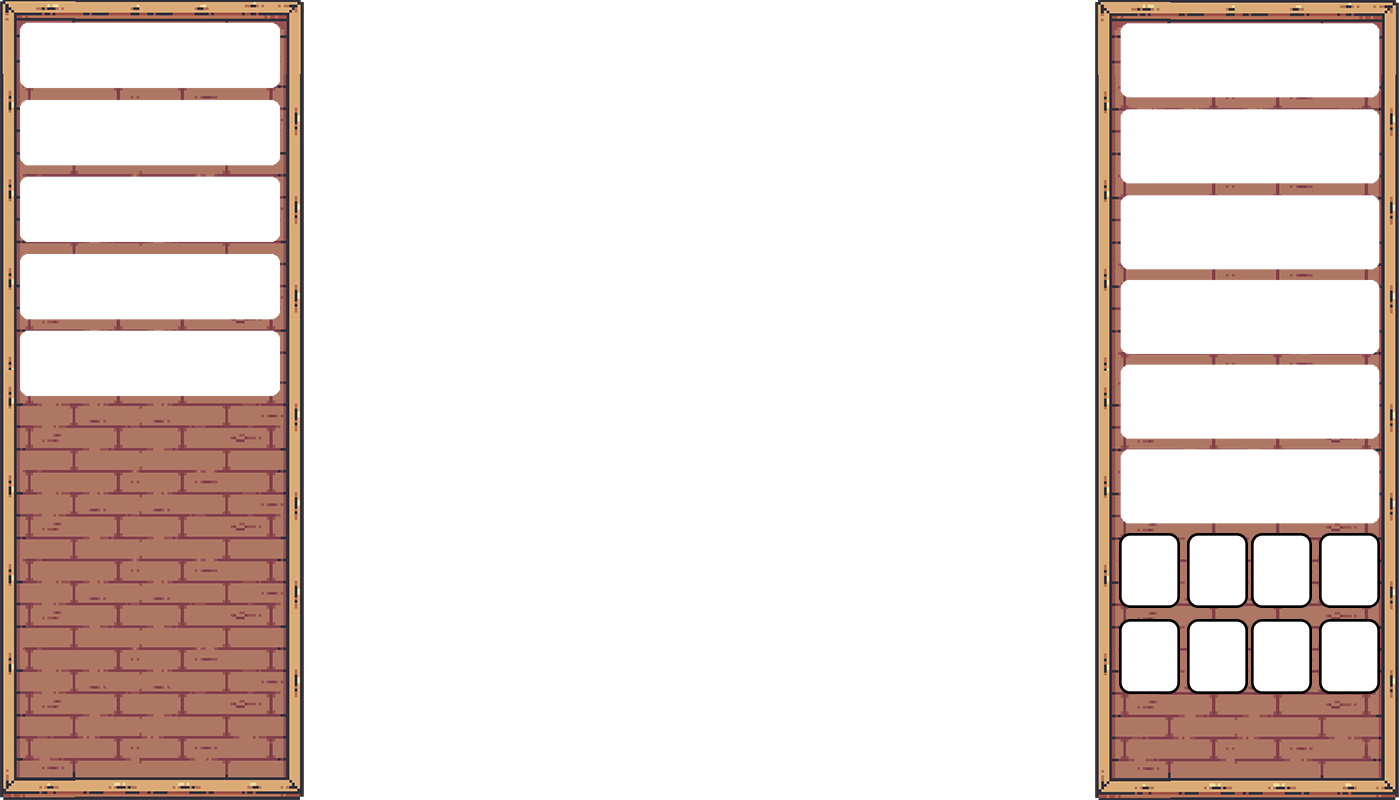
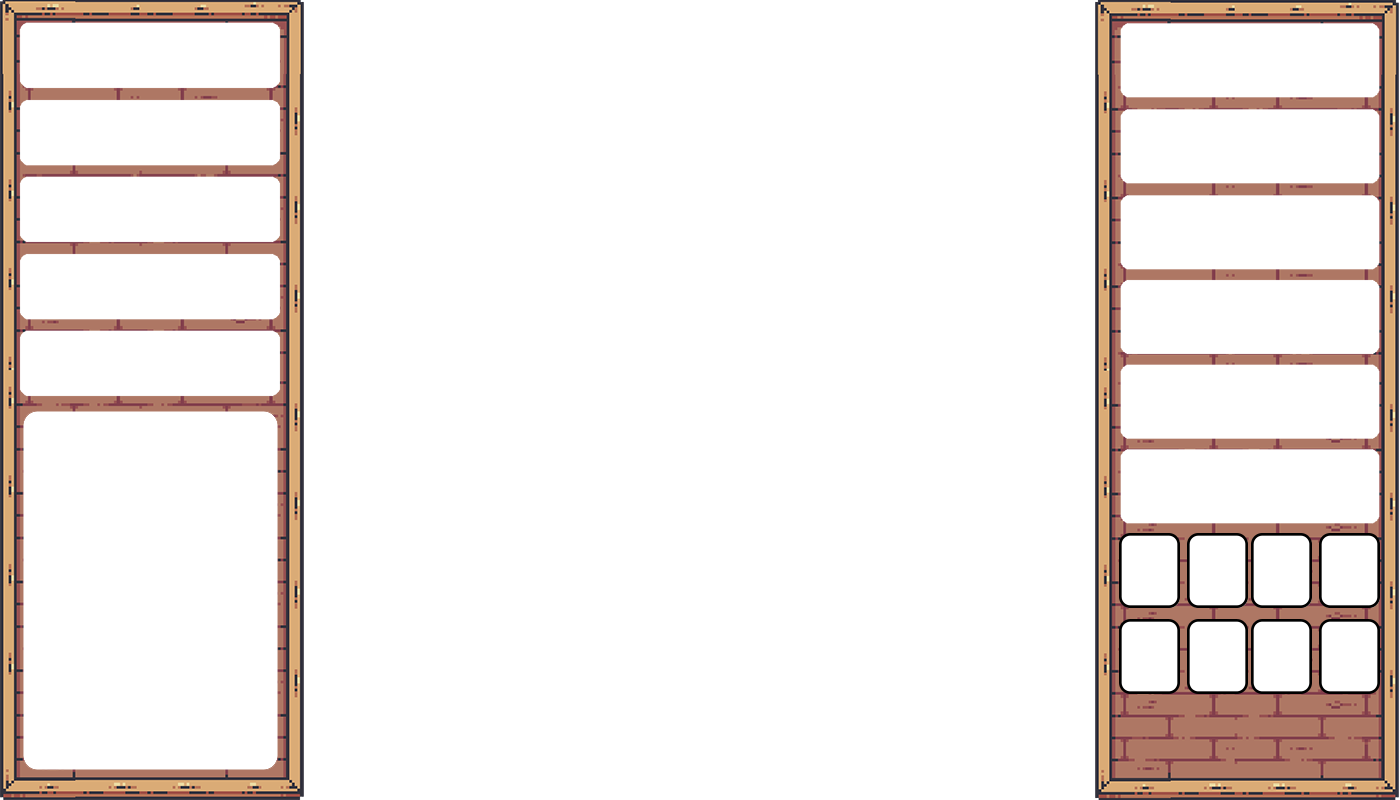
Added pausing to Application, minor visual fixes.

Changed region(s): [[0.0, 0.5, 0.215, 0.9688]]

diff --git a/LarryCroftsAdventures/src/nz/ac/wgtn/swen225/lc/app/App.java b/LarryCroftsAdventures/src/nz/ac/wgtn/swen225/lc/app/App.java
@@ -41,6 +41,11 @@ public class App extends JPanel implements ActionListener {
     private JPanel grid;
 
     private Timer timer;
+
+    public boolean paused = false;
+
+    private JLayeredPane layeredPane;
+    private PausedPanel pausedPanel;
     /**
      * Constructor for the App class.
      * Initializes the game board and sets up the graphical user interface.
@@ -50,6 +55,9 @@ public class App extends JPanel implements ActionListener {
         timer = new Timer(1000, this);
         timer.setInitialDelay(650);
         timer.start();
+
+
+
 
         try {
             ImageIcon backgroundImageIcon = new ImageIcon("LarryCroftsAdventures/assets/background.png"); // Change to your image path
@@ -82,6 +90,10 @@ public class App extends JPanel implements ActionListener {
             }
         });
         setup(new File("LarryCroftsAdventures/levels/level1.json"));
+
+
+
+
 
     }
 
@@ -120,7 +132,6 @@ public class App extends JPanel implements ActionListener {
 
         leftPanel = new JPanel(new GridLayout(2, 0, 0, 10));
         rightPanel = new JPanel(new GridLayout(9, 0, 0, 10));
-        centrePanel.setBorder(BorderFactory.createEmptyBorder(100, 20, 100, 20));
 
         rightPanel.setBorder(BorderFactory.createEmptyBorder(20, 20, 20, 20));
         leftPanel.setBorder(BorderFactory.createEmptyBorder(20, 20, 20, 20));
@@ -133,21 +144,31 @@ public class App extends JPanel implements ActionListener {
         leftPanel.setPreferredSize(new Dimension(300, 700));
         leftPanel.setBackground(brown);
         leftPanel.add(new RecorderPanel(this));
+        leftPanel.add(new KeyBindingsPanel());
 
         rightPanel.setPreferredSize(new Dimension(300, 700));
         rightPanel.setBackground(brown);
         Font font = new Font("Sans-Serif", Font.BOLD, 40);
 
 
-        rightPanel.add(createLabel("LEVEL", font, Color.lightGray, Color.red));
+        rightPanel.add(createLabel("LEVEL", font, Color.white, Color.black));
         rightPanel.add(createLabel("" + board.getLevel(), font, Color.black, Color.green)); // get the level to display eventually
-        rightPanel.add(createLabel("TIME", font, Color.lightGray, Color.red));
+        rightPanel.add(createLabel("TIME", font, Color.white, Color.black));
         rightPanel.add(timeLabel);
-        rightPanel.add(createLabel("TREASURE", font, Color.lightGray, Color.red));
+        rightPanel.add(createLabel("FISH LEFT", font, Color.white, Color.black));
         rightPanel.add(treasureLabel = createLabel("" + (treasureLeft - board.getChap().getPlayerTreasureCount()), font, Color.black, Color.green)); //get the chips left
 
         rightPanel.add(createInventory(0));
         rightPanel.add(createInventory(1));
+
+
+
+
+        // Create the GamePausedPanel but initially hide it
+        pausedPanel = new PausedPanel();
+        pausedPanel.setBounds(300, 0, 800, 800);
+        pausedPanel.setVisible(false);
+        this.add(pausedPanel, BorderLayout.CENTER);
 
 
         this.add(centrePanel, BorderLayout.CENTER);
@@ -275,6 +296,13 @@ public class App extends JPanel implements ActionListener {
 
     }
 
+    // Update the pausedPanel's visibility
+    public void setPaused(boolean isPaused) {
+        pausedPanel.setVisible(isPaused);
+        centrePanel.setVisible(!isPaused);
+        paused = isPaused;
+    }
+
     /**
      * Handles action events triggered by the timer.
      *
@@ -283,28 +311,33 @@ public class App extends JPanel implements ActionListener {
 
     @Override
     public void actionPerformed(ActionEvent e) {
-        if(board.getChap().getState() == Chap.State.COMPLETED){
+        if (board.getChap().getState() == Chap.State.COMPLETED) {
             int level = board.getChap().getBoard().getLevel();
             level++;
             setup(new File("LarryCroftsAdventures/levels/level" + level + ".json"));
         }
 
-        if (time > 0) {
+        if (time > 0 && !paused) {
             time--;
         } else {
-            //end the game
+            // Handle game over or pause conditions
+            if (!paused) {
+                // Game is over
+                JOptionPane.showMessageDialog(null,
+                        "Time's up! Do you want to replay the current level?",
+                        "Game Over",
+                        JOptionPane.PLAIN_MESSAGE);
+                time = board.getTime();
+                // Replay level or perform other game over actions
 
-            JOptionPane.showMessageDialog(null,
-                    "Time's up! Do you want to replay the current level?",
-                    "Game Over",
-                    JOptionPane.PLAIN_MESSAGE);
-            time = board.getTime();
-
-            //replay level
+                // Pause the game
+                setPaused(true);
+            }
         }
 
         timeLabel.setText("" + time);
     }
+
 
     /**
      * Gets the renderer used for drawing the game board.

diff --git a/LarryCroftsAdventures/src/nz/ac/wgtn/swen225/lc/app/RecorderPanel.java b/LarryCroftsAdventures/src/nz/ac/wgtn/swen225/lc/app/RecorderPanel.java
@@ -58,11 +58,14 @@ public class RecorderPanel extends JPanel {
     //speed of auto replay
     int speed;
 
+
+
     /**
      * Constructs a RecorderPanel and initializes its components.
      */
     public RecorderPanel(App app) {
         this.app = app;
+
         initializeComponents();
         addComponentsToPanel();
     }
@@ -92,6 +95,8 @@ public class RecorderPanel extends JPanel {
             }
         });
 
+       recordButton.setFocusable(false);
+
         // Add action listeners for the other buttons
         loadButton.addActionListener(new ActionListener() {
             @Override
@@ -110,6 +115,7 @@ public class RecorderPanel extends JPanel {
 
             }
         });
+        loadButton.setFocusable(false);
 
         stepButton.addActionListener(new ActionListener() {
             @Override
@@ -138,6 +144,7 @@ public class RecorderPanel extends JPanel {
                 }
             }
         });
+        stepButton.setFocusable(false);
 
         autoReplayButton.addActionListener(new ActionListener() {
             @Override
@@ -173,6 +180,7 @@ public class RecorderPanel extends JPanel {
                 }
             }
         });
+        autoReplayButton.setFocusable(false);
 
         addSlider();
 

diff --git a/LarryCroftsAdventures/src/nz/ac/wgtn/swen225/lc/app/KeyBindingsPanel.java b/LarryCroftsAdventures/src/nz/ac/wgtn/swen225/lc/app/KeyBindingsPanel.java
@@ -1,0 +1,27 @@
+package nz.ac.wgtn.swen225.lc.app;
+
+
+import javax.swing.*;
+import javax.swing.border.EmptyBorder;
+import java.awt.*;
+
+public class KeyBindingsPanel extends JPanel {
+    public KeyBindingsPanel() {
+        setLayout(new GridLayout(8, 1, 10, 10));
+        setBorder(new EmptyBorder(10, 10, 10, 10));
+
+        addKeyBinding("CTRL-X", "Exit (lose progress)");
+        addKeyBinding("CTRL-S", "Save and Exit");
+        addKeyBinding("CTRL-R", "Resume a saved game");
+        addKeyBinding("CTRL-1", "Start a new game at level 1");
+        addKeyBinding("CTRL-2", "Start a new game at level 2");
+        addKeyBinding("SPACE", "Pause the game");
+        addKeyBinding("ESC", "Resume the game from pause");
+        addKeyBinding("Arrow Keys", "Move the character");
+    }
+    private void addKeyBinding(String keyCombination, String description) {
+        JLabel label = new JLabel(keyCombination + " - " + description);
+        label.setFont(new Font("Arial", Font.PLAIN, 14));
+        add(label);
+    }
+}

diff --git a/LarryCroftsAdventures/src/nz/ac/wgtn/swen225/lc/app/PausedPanel.java b/LarryCroftsAdventures/src/nz/ac/wgtn/swen225/lc/app/PausedPanel.java
@@ -1,0 +1,18 @@
+package nz.ac.wgtn.swen225.lc.app;
+
+import javax.swing.*;
+import java.awt.*;
+
+public class PausedPanel extends JPanel {
+    public PausedPanel() {
+        setOpaque(false); // Make it transparent
+        setLayout(new BorderLayout());
+
+        JLabel pausedLabel = new JLabel("Game is Paused");
+        pausedLabel.setFont(new Font("Arial", Font.BOLD, 36));
+        pausedLabel.setForeground(Color.RED);
+        pausedLabel.setHorizontalAlignment(SwingConstants.CENTER);
+
+        add(pausedLabel, BorderLayout.CENTER);
+    }
+}

diff --git a/LarryCroftsAdventures/src/nz/ac/wgtn/swen225/lc/app/Main/Main.java b/LarryCroftsAdventures/src/nz/ac/wgtn/swen225/lc/app/Main/Main.java
@@ -42,7 +42,7 @@ public class Main extends JFrame {
     public Main() {
         recorder = new Recorder();
         System.out.println("Hello world");
-        f = new JFrame("Larry Croft's Adventures");
+        f = new JFrame("Reel It In");
         l = new JLabel("Welcome");
 
         f.setDefaultCloseOperation(DO_NOTHING_ON_CLOSE); // Set the default close operation to exit the application.
